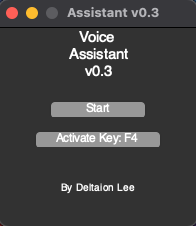
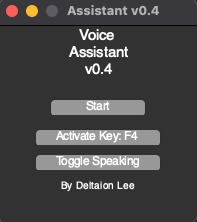
Marks v0.4
Added youtube search support, changed chatterbox, and slighty optimized code. Still using one more thread than I want to, though.

diff --git a/main.py b/main.py
@@ -8,12 +8,11 @@ from pydub import AudioSegment
 from pydub.playback import play
 import audioplayer
 import youtube_dl
-from chatterbot import ChatBot
-from chatterbot.trainers import ChatterBotCorpusTrainer
+from youtube_search import YoutubeSearch
 import os
 import sys
 
-version = 0.3
+version = 0.4
 
 window = Tk.Tk()
 window.title(f"Assistant v{version}")
@@ -23,15 +22,8 @@ window.resizable(False,False)
 frame = Tk.Frame(window, width=800, height=400)
 frame.pack()
 
-chatbot = ChatBot('Voice Assistant')
-
-# Create a new trainer for the chatbot
-trainer = ChatterBotCorpusTrainer(chatbot)
-
-# Train the chatbot based on the english corpus
-trainer.train("chatterbot.corpus.english")
-
 type = False
+chatter = False
 
 window_closed = False
 listen = False
@@ -66,7 +58,18 @@ try:
 except:
     sys.exit("Cannot create voice.\nPlease create a Github issue at https://github.com/MCMi460/voice-assistant/issues/new")
 
-# START WORKING ON SECOND THREAD WITH FUNCTIONS AND KEEP VOICE LISTENING TO FIRST THREAD TOMORROW
+r = sr.Recognizer()
+
+if chatter:
+    from chatterbot import ChatBot
+    from chatterbot.trainers import ChatterBotCorpusTrainer
+    chatbot = ChatBot('Voice Assistant')
+
+    # Create a new trainer for the chatbot
+    trainer = ChatterBotCorpusTrainer(chatbot)
+
+    # Train the chatbot based on the english corpus
+    trainer.train("chatterbot.corpus.english")
 
 class BackgroundVoice(threading.Thread):
     def run(self,*args,**kwargs):
@@ -100,7 +103,6 @@ class BackgroundVoice(threading.Thread):
                 failed = True
                 play(startvoice)
                 if not type:
-                    r = sr.Recognizer()
                     with sr.Microphone() as source:
                         print("Start speaking!")
                         audio = r.listen(source)
@@ -125,7 +127,7 @@ class BackgroundVoice(threading.Thread):
                         openapp = True
                     elif lower.startswith('play'):
                         playsong = True
-                    elif 'chat' in lower:
+                    elif 'chat' in lower and chatter:
                         chatstart = not chatstart
                     elif lower.startswith('stop'):
                         stop = True
@@ -135,8 +137,6 @@ class BackgroundVoice(threading.Thread):
 
 class BackgroundTask(threading.Thread):
     def run(self,*args,**kwargs):
-        r = sr.Recognizer()
-
         global fin
         global text
 
@@ -192,6 +192,7 @@ class BackgroundMusic(threading.Thread):
         global player
         global stop
         global text
+        global fin
 
         while True:
             if stop:
@@ -205,11 +206,17 @@ class BackgroundMusic(threading.Thread):
                 if playing:
                     player.stop()
                     playing = False
-                text = text.lower().split("play ")[1]
-                text = "Playing song"
+                try:
+                    text = text.lower().split("play ")[1]
+                except:
+                    text = "Never gonna give you up"
+                if text.startswith("song "):
+                    text = text.replace("song ","")
                 try:
                     with youtube_dl.YoutubeDL(ydl_opts) as ydl:
-                        ydl.download(['https://www.youtube.com/watch?v=rXbv7gMsqxY'])
+                        results = YoutubeSearch(text, max_results=1).to_dict()[0]
+                        ydl.download([f'https://www.youtube.com/{results["url_suffix"]}'])
+                    text = f"Playing {str(results['title'])}"
                 except:
                     text = "Could not get song from Youtube."
                 try:

diff --git a/README.md b/README.md
@@ -1,14 +1,17 @@
 # Voice Assistant
 A Python-based Voice Assistant
 
+### I know this is not well documented
+I will update this README with a proper set of instructions for downloading this program and making it work when it is finalized, so give it time.
+
 ![visual](/images/visual.png?raw=true)
 
 I will rarely update this, I just wanted to prove I could do it. You're on your own using it, feel free to edit and update this code, make a fork, pull request, whatever you want.
 
 Controls:
 
-"Open <app>"
+"Open <app>" (opens an app of your choice)
 
-"Play song"
+"Play <song>" (gets from Youtube)
 
-"Chat with me"
+"Chat with me" (requires enabling in the main.py file - uses chatterbox python library as a chat bot to talk with you)
